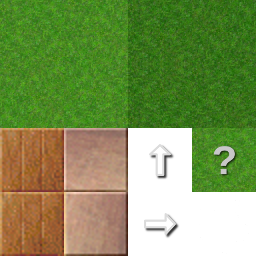
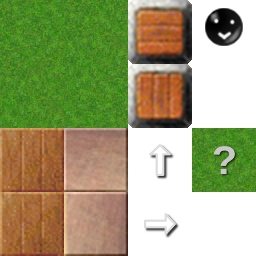
display game objects

Changed region(s): [[0.5, 0.0, 1.0, 0.5]]

diff --git a/js/game.js b/js/game.js
@@ -4,7 +4,19 @@ const store = new Vuex.Store({
             "wwwww",
             "w w w",
             "w oxw",
-            "wwwww"]
+            "wwwww"],
+        gameObjects: [
+            {
+                name: 'avatar',
+                x: 1,
+                y: 1
+            },
+            {
+                name: 'box',
+                x: 2,
+                y: 2
+            }
+        ]
     }
 });
 
@@ -15,6 +27,9 @@ Vue.component('playground', {
         computed: {
             levelMap() {
                 return this.$store.state.levelMap;
+            },
+            gameObjects() {
+                return this.$store.state.gameObjects;
             }
         }
 });

diff --git a/css/game.css b/css/game.css
@@ -17,3 +17,18 @@ body {
 .tile-y {
     background: url("../data/images/gfx64/tiles.png") -320px -64px;
 }
+
+.game-object {
+    width: 64px;
+    height: 64px;
+    position: absolute;
+    background: url("../data/images/gfx64/tiles.png") -192px -192px;
+}
+
+.game-object-avatar {
+    background: url("../data/images/gfx64/tiles.png") -192px 0;
+}
+
+.game-object-box {
+    background: url("../data/images/gfx64/tiles.png") -128px 0;
+}

diff --git a/index.html b/index.html
@@ -14,6 +14,10 @@
             :class="['tile tile-' + tileName]"
             :style="{ top: rowIndex*64 + 'px', left: tileIndex*64 + 'px'}"></span>
     </div>
+    <div v-for="(gameObject, index) in gameObjects"
+            :class="['game-object game-object-' + gameObject.name]"
+            :style="{ top: gameObject.y*64 + 'px', left: gameObject.x*64 + 'px'}">
+    </div>
     </div>
 </script>
 
